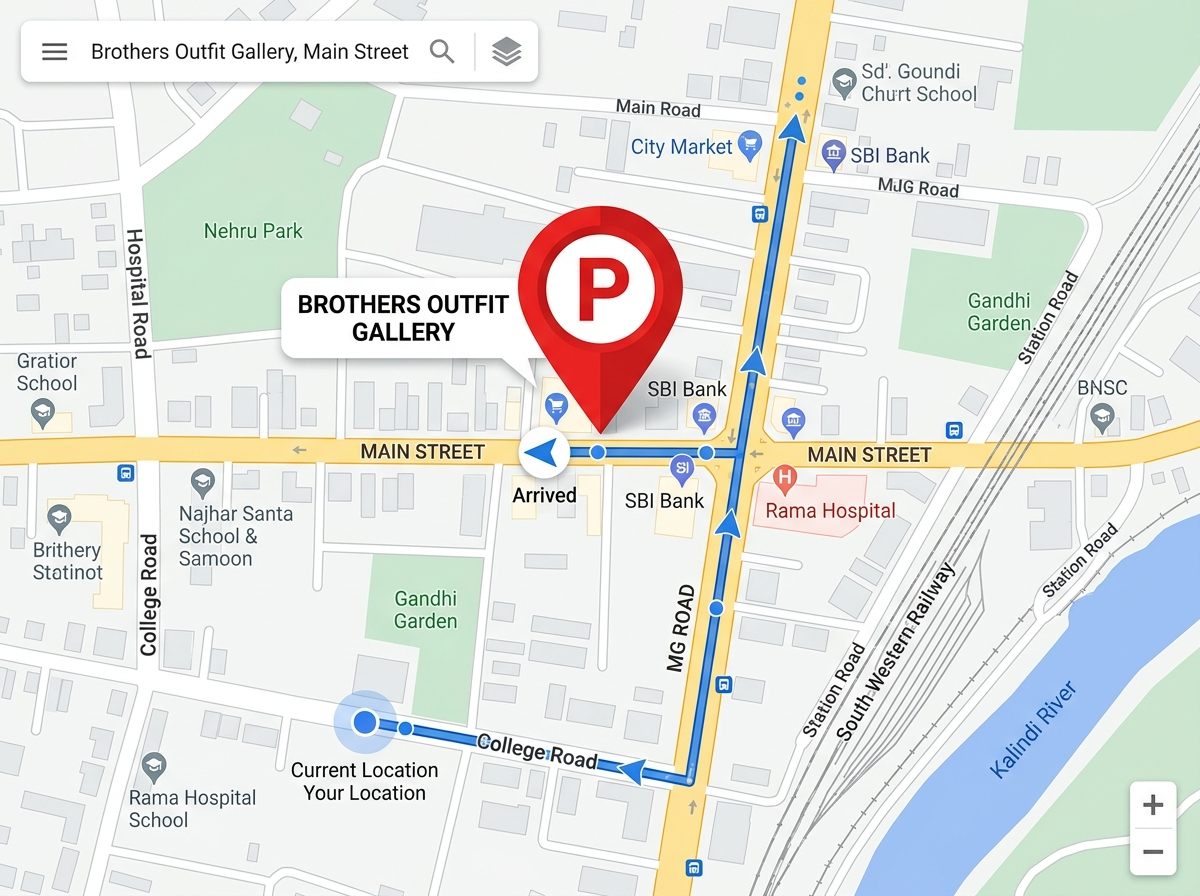
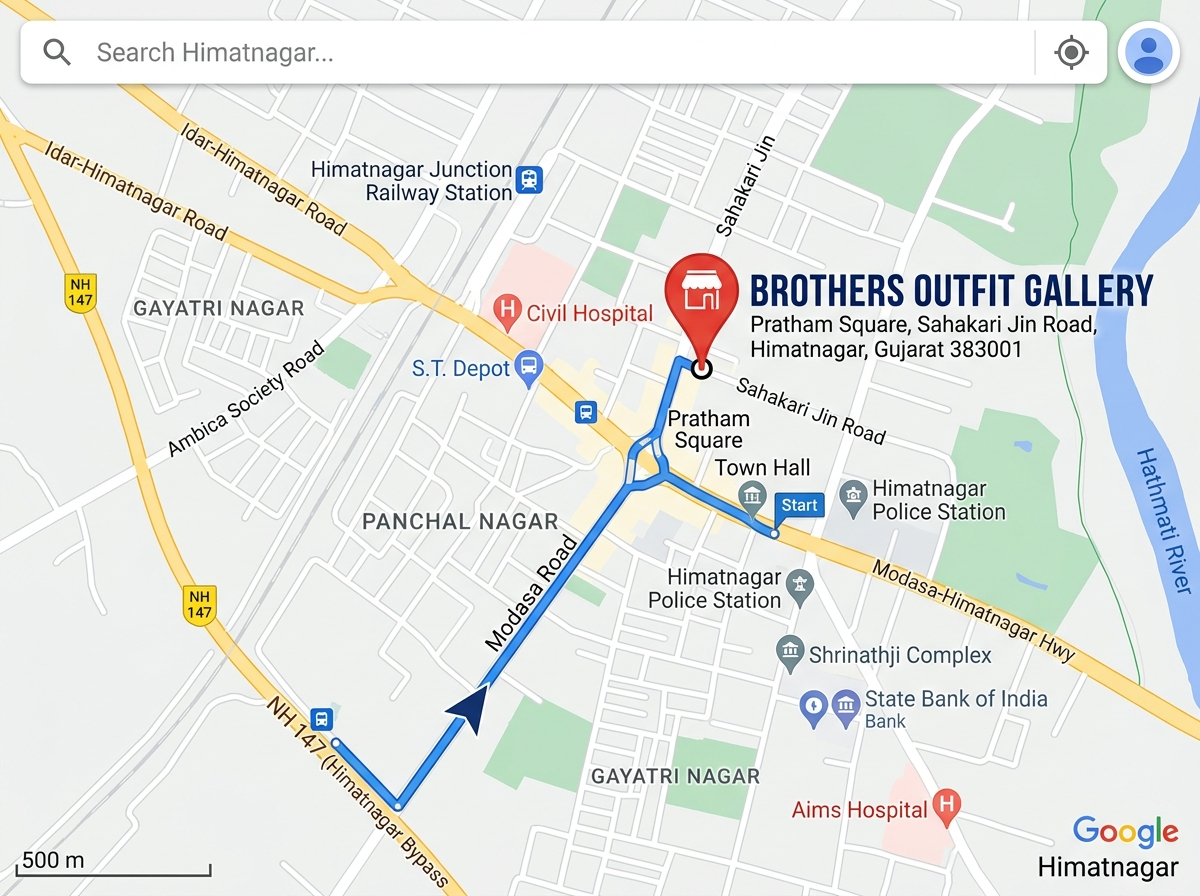
chore: update store address to FF 57, Pratham Square, Sahakari Jin Rd, Himatnagar and update map photo

diff --git a/src/pages/AboutPage.jsx b/src/pages/AboutPage.jsx
@@ -72,7 +72,7 @@ export default function AboutPage() {
         <div className="about-container">
           <div className="about-hero-badge">
             <span className="hero-badge-dot"></span>
-            <span>OFFICIAL STORE • MODASA, GUJARAT</span>
+            <span>OFFICIAL STORE • HIMATNAGAR, GUJARAT</span>
           </div>
           <h1 className="about-hero__title">MORE THAN CLOTHING.<br />IT'S YOUR STYLE.</h1>
           <p className="about-hero__desc">
@@ -140,7 +140,7 @@ export default function AboutPage() {
                 At <strong>{businessInfo.name}</strong>, we believe that modern menswear should be bold yet effortless, comfortable yet sharp. Founded with a vision to provide accessible, top-tier men's fashion, we have grown into one of the most trusted clothing destinations in the region.
               </p>
               <p>
-                Every piece in our catalog is handpicked for its fabric longevity, colorfastness, and tailored fit. Whether you walk into our Modasa gallery or shop conveniently online, we ensure you receive attentive customer service, honest sizing advice, and garments you'll be proud to wear.
+                Every piece in our catalog is handpicked for its fabric longevity, colorfastness, and tailored fit. Whether you walk into our Himatnagar gallery or shop conveniently online, we ensure you receive attentive customer service, honest sizing advice, and garments you'll be proud to wear.
               </p>
               
               <div className="story-highlights-list">
@@ -175,7 +175,7 @@ export default function AboutPage() {
                   <span className="badge-star">★</span>
                   <div>
                     <strong>Authentic In-Store Experience</strong>
-                    <span>Modasa's Top Fashion Gallery</span>
+                    <span>Himatnagar's Top Fashion Gallery</span>
                   </div>
                 </div>
               </div>
@@ -295,7 +295,7 @@ export default function AboutPage() {
                 <a href={businessInfo.googleMapsUrl} target="_blank" rel="noopener noreferrer" className="btn-primary">
                   OPEN IN GOOGLE MAPS ↗
                 </a>
-                <a href="tel:+919876543210" className="btn-secondary">
+                <a href={`tel:${businessInfo.phone.replace(/[^0-9+]/g, '')}`} className="btn-secondary">
                   CALL STORE
                 </a>
               </div>
@@ -318,7 +318,7 @@ export default function AboutPage() {
                 <div className="map-pin-pulse-icon">📍</div>
                 <div className="map-photo-details">
                   <strong>BROTHERS OUTFIT GALLERY</strong>
-                  <p>College Road, Modasa, Gujarat 383315</p>
+                  <p>FF 57, Pratham Square, Sahakari Jin Rd, Himatnagar, Gujarat 383001</p>
                   <span className="map-click-prompt">Click to open directions in Google Maps ↗</span>
                 </div>
               </div>
@@ -373,7 +373,7 @@ export default function AboutPage() {
             </div>
             <div className="faq-item">
               <h4>Can I try clothes in the store?</h4>
-              <p>Yes, our Modasa store features spacious, comfortable trial rooms and dedicated styling assistants to ensure your ideal fit.</p>
+              <p>Yes, our Himatnagar store features spacious, comfortable trial rooms and dedicated styling assistants to ensure your ideal fit.</p>
             </div>
           </div>
         </div>

diff --git a/src/services/adminService.js b/src/services/adminService.js
@@ -192,10 +192,10 @@ export const getStoreSettings = async () => {
     const snap = await getDoc(doc(db, 'settings', 'store'));
     return snap.exists() ? snap.data() : {
       storeName: "Brothers Outfit Gallery",
-      phone: "+91 98765 43210",
+      phone: "+91 84602 33020",
       email: "contact@brothersoutfit.com",
-      address: "Main Market, India",
-      whatsappNumber: "919876543210",
+      address: "FF 57, Pratham Square, Sahakari Jin Rd, Anant Vihar Society, Himatnagar, Gujarat 383001",
+      whatsappNumber: "918460233020",
       freeShippingMin: 1500,
       autoDiscountThreshold: 2000,
       autoDiscountAmount: 250

diff --git a/src/config/business.js b/src/config/business.js
@@ -8,8 +8,8 @@ export const businessInfo = {
   googleMapsUrl: "https://maps.app.goo.gl/LdPv9pHvtFU8cj4E8",
   
   // Real business location details
-  address: "BROTHERS OUTFIT GALLERY, College Road, Modasa, Gujarat 383315, India",
-  phone: "+91 98765 43210",
+  address: "FF 57, Pratham Square, Sahakari Jin Rd, Anant Vihar Society, Himatnagar, Gujarat 383001",
+  phone: "+91 84602 33020",
   email: "contact@brothersoutfit.com",
   coordinates: {
     lat: 23.5875977,
